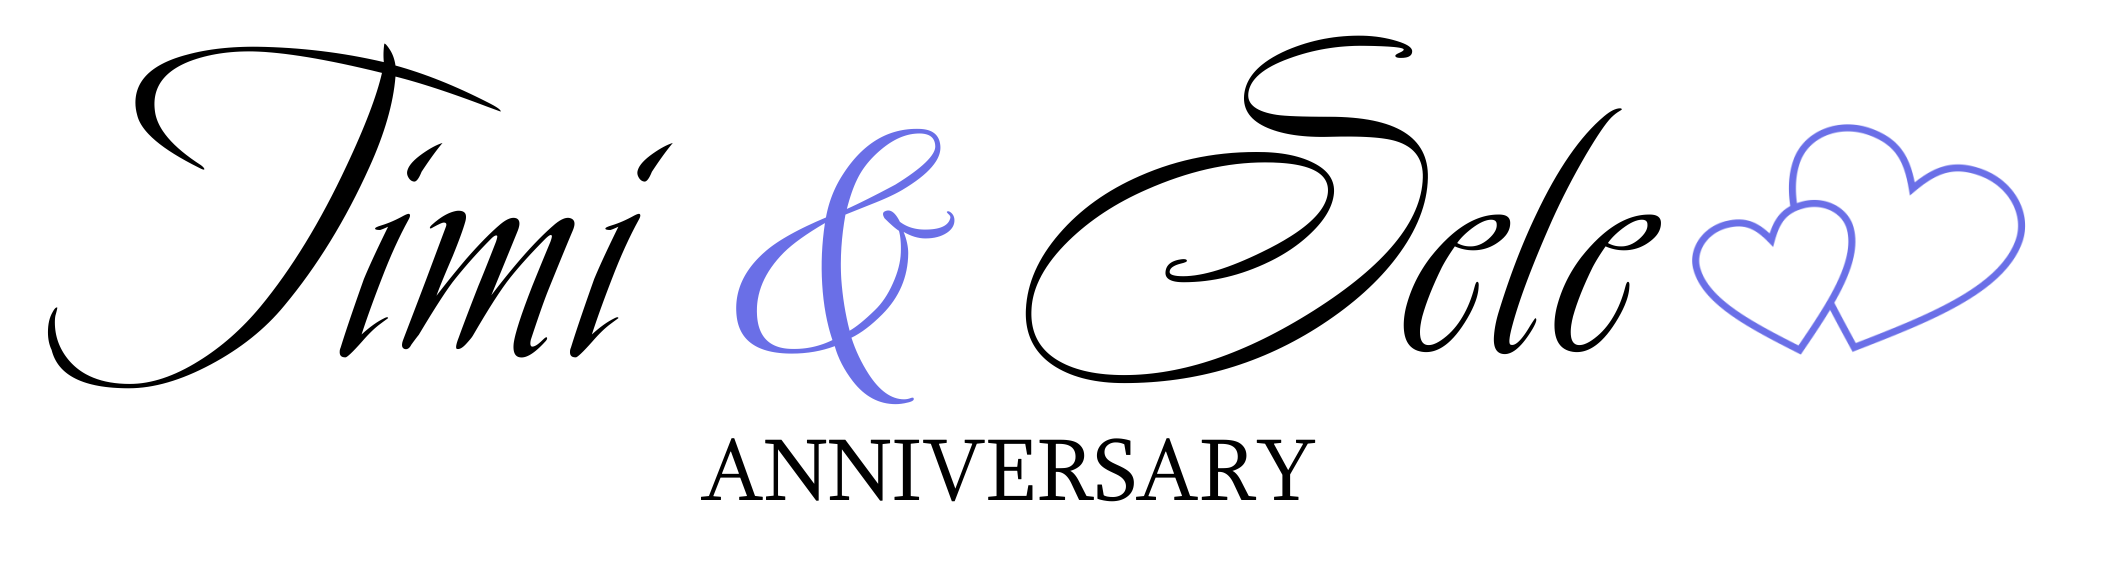
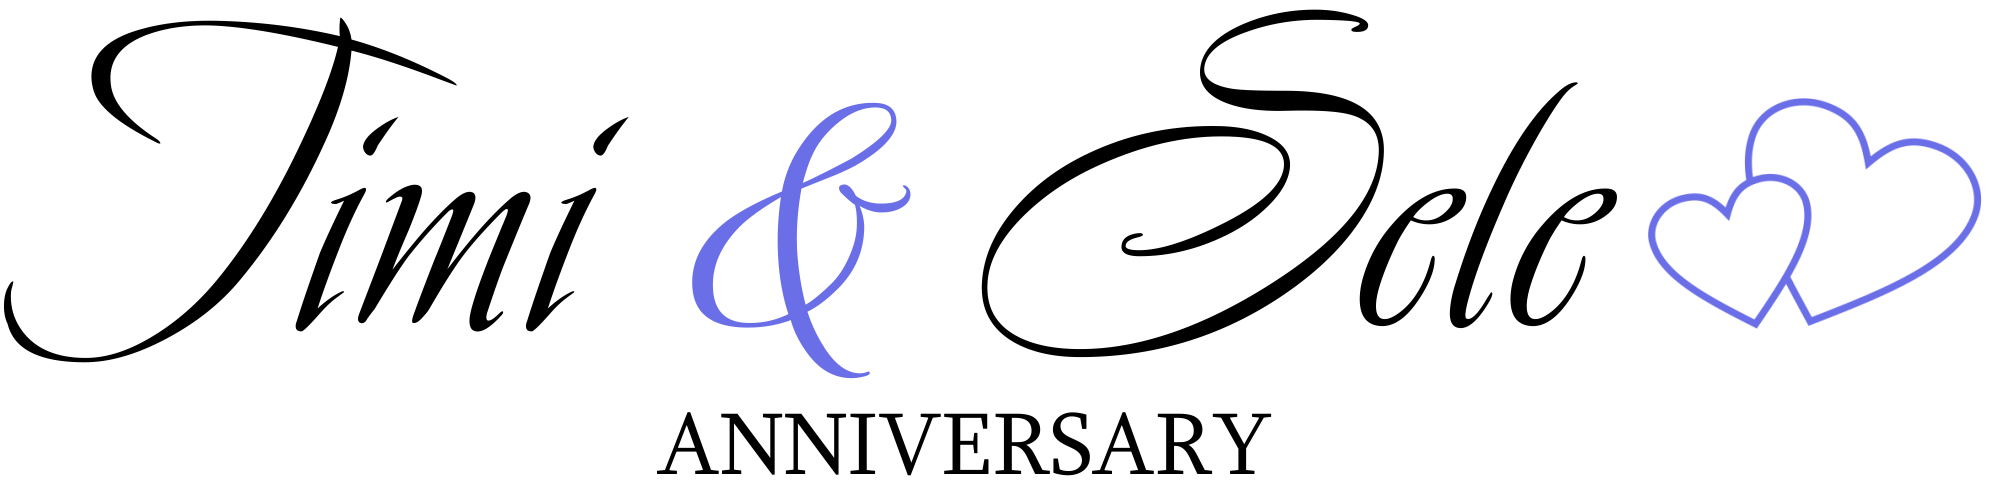
Adjusted Header Label

diff --git a/2020anniv.css b/2020anniv.css
@@ -23,8 +23,8 @@ section.hero{
 .hero header img{ 
     width: 100%;
     height: 100%; 
-    position: absolute;
-    /* object-fit: fill; */
+    object-fit: fill;
+    position: absolute; 
 }
 .hide-mobile{
     display: none;
@@ -34,8 +34,8 @@ section.hero{
     height: 2.2em;
     display: block;
     position: fixed;
-    right: .5em;
-    top: .3em;
+    right: 0.8em;
+    top: .5em;
 }
 div.years{ 
     width: 100%;
@@ -89,7 +89,7 @@ div.pointer{
 }
 @keyframes points{
     from{
-        transform: translateY(0px);
+        transform: translatpx);
     }
     to{
         transform: translateY(30px);
@@ -151,4 +151,5 @@ div.copyright{
 }
 .zmdi-favorite{
     color: red;
+    font-size: 1.2rem;
 }

diff --git a/index.html b/index.html
@@ -10,7 +10,7 @@
 <body>
     <section class="hero">
         <header>
-        <img src="/images/TISEL2.png" alt="Couple Label">
+        <img src="../digitcode.github.io/images/TISEL22.png" alt="Couple Label">
         <nav class="show-desktop hide-mobile" >
             <ul>
                 <li>Home</li>
